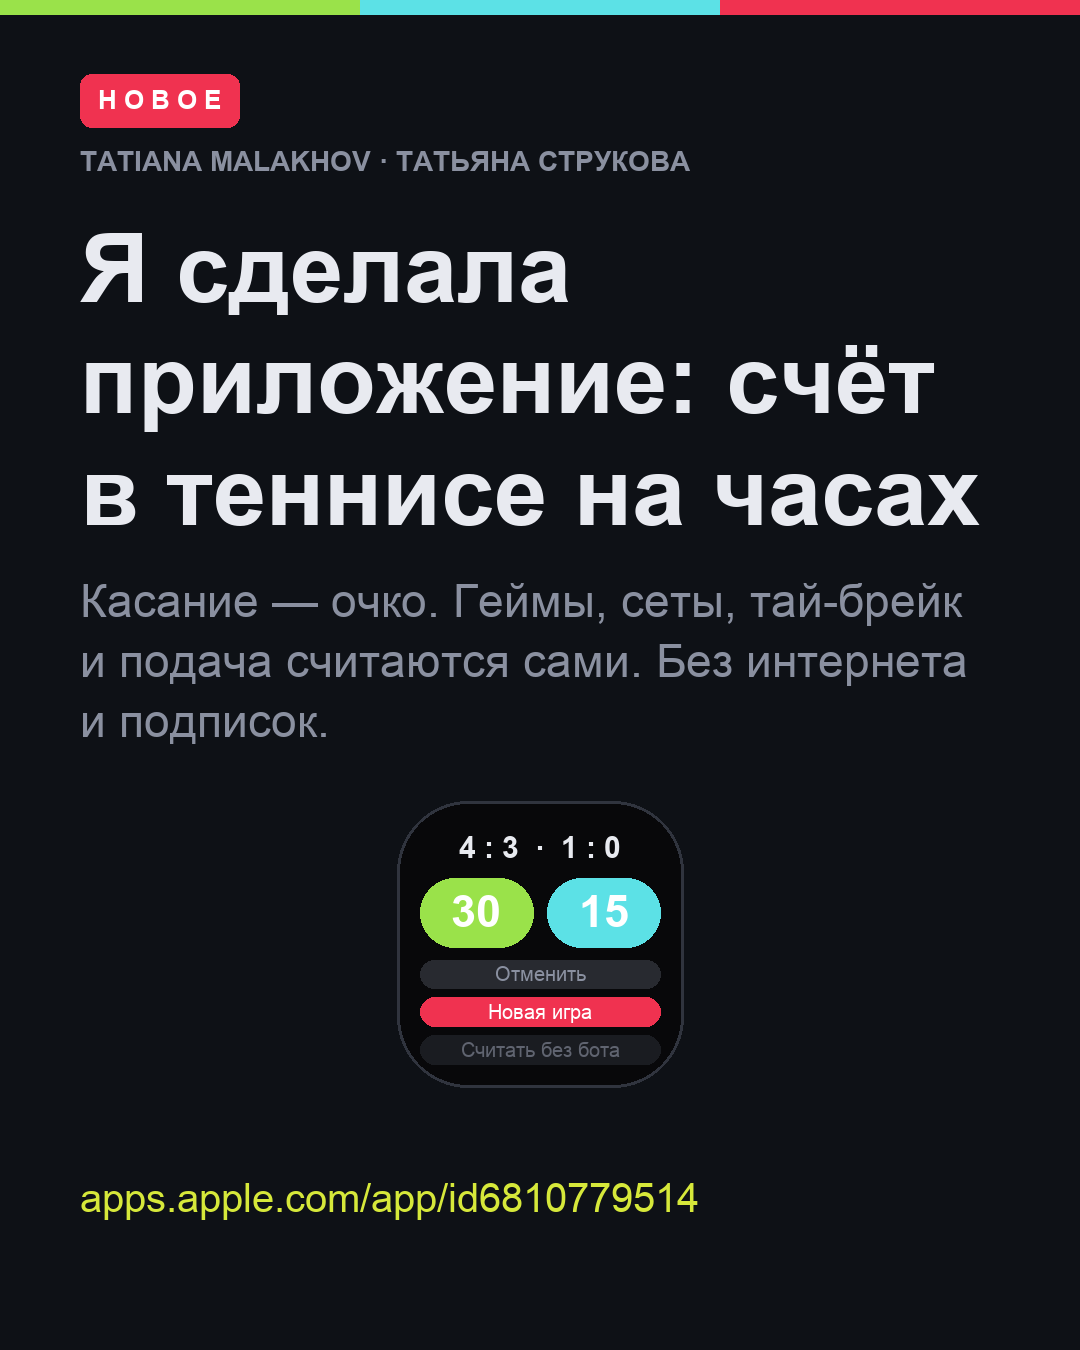
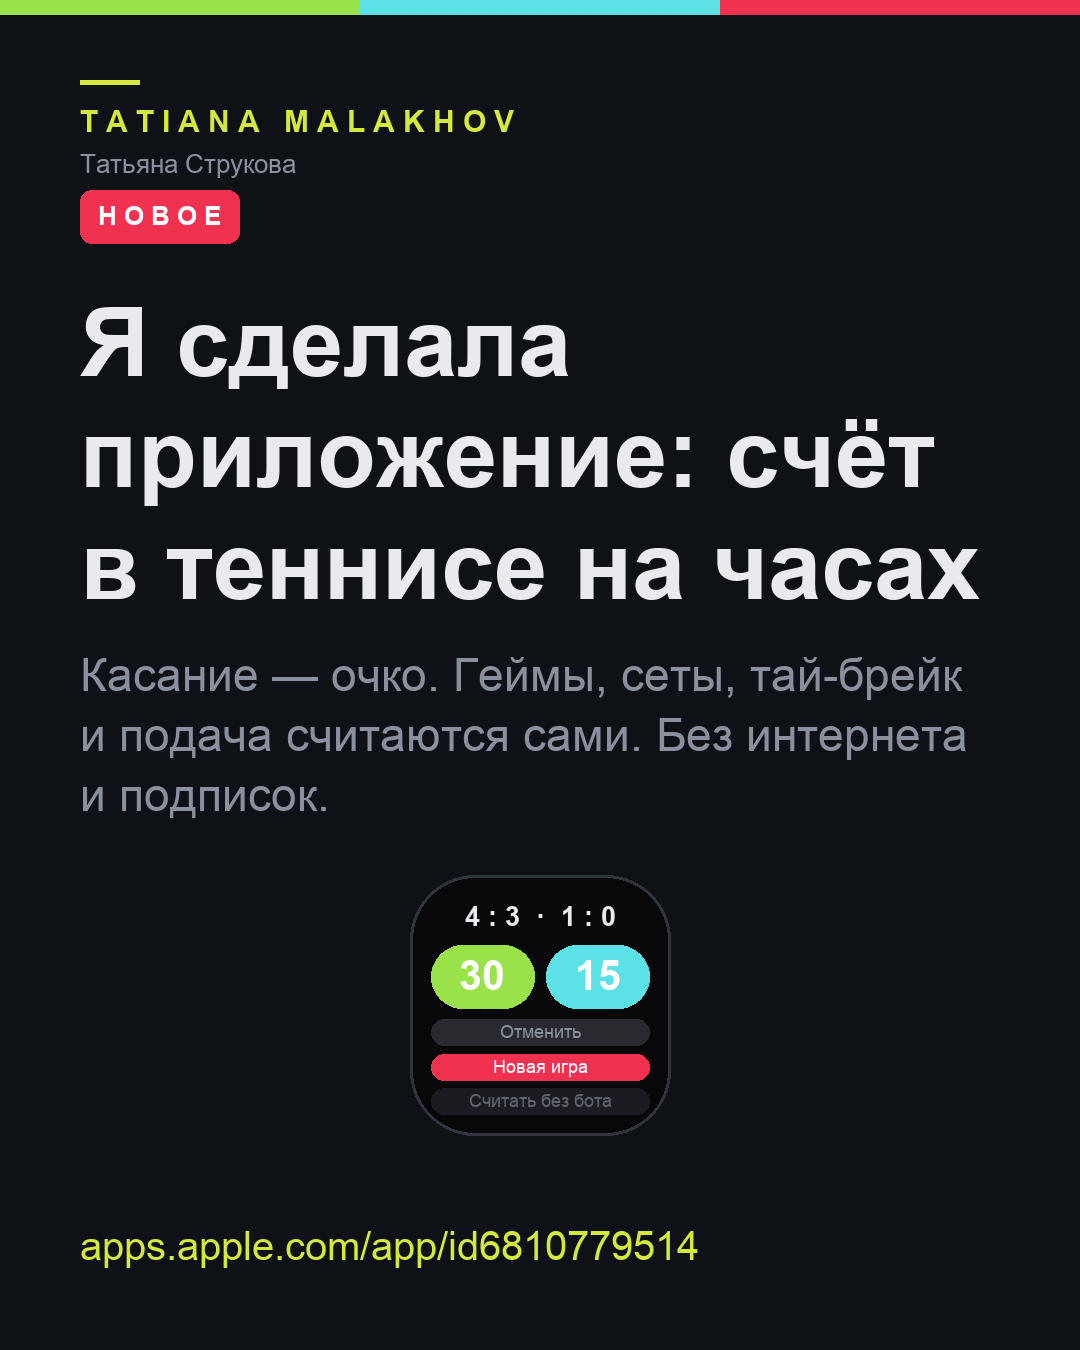
Имя как марка: зелёное, вразрядку, с чертой
Подпись автора потускнела, когда рядом встала метка новости, — а имя
здесь не служебная строка, а марка. Дорогое впечатление дают три вещи:
воздух между буквами, короткая черта над именем и цвет, который на
карточке больше нигде не повторяется.

Двойное имя разведено на две строки: «как знают в мире» — вразрядку
акцентом, «как знают здесь» — ниже и тише. В одну строку с промежутками
оно расползалось на всю ширину и переставало читаться как имя.

Changed region(s): [[0.0611, 0.0311, 0.9167, 0.6222], [0.3667, 0.5911, 0.6417, 0.84], [0.0611, 0.8711, 0.6417, 0.9333]]

diff --git a/tools/make_card.py b/tools/make_card.py
@@ -238,24 +238,38 @@ def card(title: str, subtitle: str = "", note: str = "",
     # приложение»: у него есть человек, и человек хочет, чтобы его имя
     # читали раньше, чем описание.
     head_y = size[1] * plan["sign"] if tall else 70
-    if label:
-        head_y = tag(draw, margin, int(head_y), label,
-                     26 if tall else 22) + (18 if tall else 14)
-
     if author:
-        # Вразрядку — только короткое имя. Двойная подпись «как знают
-        # там и как знают здесь» с промежутками расползается на всю
-        # ширину и перестаёт читаться как имя.
-        sign = font("Arial Bold.ttf", 28 if tall else 24)
-        text = author.upper()
-        if len(text) <= 22:
-            text = " ".join(text)
-        draw.text((margin, head_y), text, font=sign,
-                  fill=DIM if label else ACCENT)
+        # Имя — не подпись мелким шрифтом, а марка. Дорогое впечатление
+        # дают три вещи: воздух между буквами, короткая черта над именем
+        # и цвет, который на карточке больше нигде не повторяется.
+        #
+        # Двойное имя разводим на две строки: «как знают в мире» —
+        # вразрядку акцентом, «как знают здесь» — ниже и тише. В одну
+        # строку с промежутками оно расползается на всю ширину и
+        # перестаёт читаться как имя.
+        first, _, second = author.partition("·")
+        sign = font("Arial Bold.ttf", 30 if tall else 25)
+
+        rule = int(size[0] * (0.055 if tall else 0.045))
+        draw.rectangle([margin, head_y + 6, margin + rule, head_y + 10],
+                       fill=ACCENT)
+        head_y += 30 if tall else 24
+
+        draw.text((margin, head_y), " ".join(first.strip().upper()),
+                  font=sign, fill=ACCENT)
+        head_y += sign.size * 1.5
+
+        if second.strip():
+            quiet = font("Arial.ttf", 26 if tall else 22)
+            draw.text((margin, head_y), second.strip(), font=quiet, fill=DIM)
+            head_y += quiet.size * 1.2
 
     if tall:
         width = size[0] - margin * 2
-        y = max(size[1] * plan["title"], head_y + (70 if author else 40))
+        if label:
+            head_y = tag(draw, margin, int(head_y) + 10, label,
+                         26 if tall else 22)
+        y = max(size[1] * plan["title"], head_y + (46 if tall else 34))
         for line in wrap(draw, title, big, width):
             draw.text((margin, y), line, font=big, fill=INK)
             y += big.size * 1.16
@@ -294,7 +308,10 @@ def card(title: str, subtitle: str = "", note: str = "",
     else:
         screen = 420 if face else 0
         width = size[0] - margin * 2 - (screen + 40 if face else 0)
-        y = max(150, head_y + (60 if author else 30))
+        if label:
+            head_y = tag(draw, margin, int(head_y) + 8, label,
+                         26 if tall else 22)
+        y = max(150, head_y + 34)
         if face:
             watch(draw, size[0] - margin - screen, 160, screen,
                   face[0], face[1], lang)
